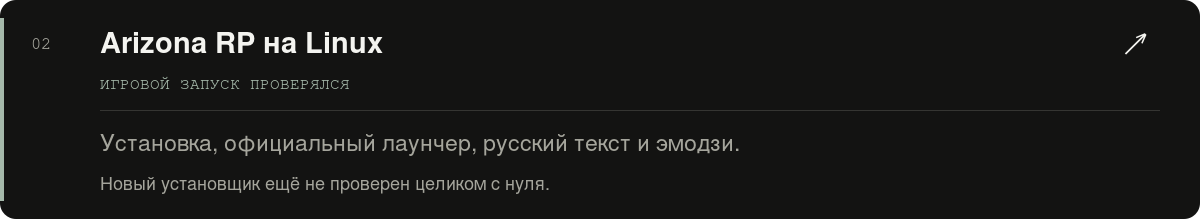
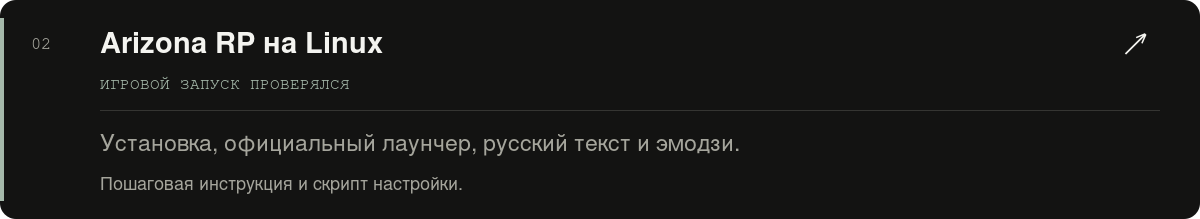
Обновить подписи карточек Arizona и Radmir

Changed region(s): [[0.0925, 0.8219, 0.4625, 0.8767]]

diff --git a/preview.html b/preview.html
@@ -12,9 +12,9 @@
 
 <p><a href="https://github.com/anrhangels/milo-home"><img src="assets/milo.png" width="100%" alt="01 — Milo Home. Простой домашний экран для Android TV и Google TV: приложения, пульт и меньше лишнего. На основе CleanYourTV; собственные выпуски и инструкции. Открыть проект."></a></p>
 
-<p><a href="https://github.com/anrhangels/linux-arizona-rp"><img src="assets/arizona.png" width="100%" alt="02 — Arizona RP на Linux. Установка, официальный лаунчер, русский текст и эмодзи. Игровой запуск проверялся; новый установщик ещё не проверен целиком с нуля. Открыть репозиторий."></a></p>
+<p><a href="https://github.com/anrhangels/linux-arizona-rp"><img src="assets/arizona.png" width="100%" alt="02 — Arizona RP на Linux. Установка, официальный лаунчер, русский текст и эмодзи. Игровой запуск проверялся. Инструкции и настройка — в репозитории. Открыть репозиторий."></a></p>
 
-<p><a href="https://github.com/anrhangels/linux-radmir-rp"><img src="assets/radmir.png" width="100%" alt="03 — Radmir CRMP на Linux. Установка, библиотеки для графики и помощник музыки. Игровой запуск проверялся; новый установщик ещё не проверен целиком с нуля. Открыть репозиторий."></a></p>
+<p><a href="https://github.com/anrhangels/linux-radmir-rp"><img src="assets/radmir.png" width="100%" alt="03 — Radmir CRMP на Linux. Установка, библиотеки для графики и помощник музыки. Игровой запуск проверялся. Инструкции и настройка — в репозитории. Открыть репозиторий."></a></p>
 
 <p><a href="https://github.com/anrhangels/linux-amazing-rp"><img src="assets/amazing.png" width="100%" alt="04 — Amazing Online на Linux. Запуск игры не достигнут. Технический отчёт о проведённых тестах, ошибках и выводах. Открыть отчёт."></a></p>
 

diff --git a/assets/create_art.py b/assets/create_art.py
@@ -53,8 +53,8 @@ def project(c,index,title,status,desc,foot,co):
  text(c,foot,100,190,18,MUTED)
  text(c,'↗',1125,53,30,INK)
 def milo(c):project(c,'01','Milo Home','ANDROID TV / GOOGLE TV','Простой домашний экран: приложения, пульт и меньше лишнего.','На основе CleanYourTV. Собственные выпуски и инструкции.','#B7C6CF')
-def arizona(c):project(c,'02','Arizona RP на Linux','ИГРОВОЙ ЗАПУСК ПРОВЕРЯЛСЯ','Установка, официальный лаунчер, русский текст и эмодзи.','Новый установщик ещё не проверен целиком с нуля.','#A5B9AA')
-def radmir(c):project(c,'03','Radmir CRMP на Linux','ИГРОВОЙ ЗАПУСК ПРОВЕРЯЛСЯ','Установка, библиотеки для графики и помощник музыки.','Новый установщик ещё не проверен целиком с нуля.','#A5B9AA')
+def arizona(c):project(c,'02','Arizona RP на Linux','ИГРОВОЙ ЗАПУСК ПРОВЕРЯЛСЯ','Установка, официальный лаунчер, русский текст и эмодзи.','Пошаговая инструкция и скрипт настройки.','#A5B9AA')
+def radmir(c):project(c,'03','Radmir CRMP на Linux','ИГРОВОЙ ЗАПУСК ПРОВЕРЯЛСЯ','Установка, библиотеки для графики и помощник музыки.','Графика, музыка и запуск одной командой.','#A5B9AA')
 def amazing(c):project(c,'04','Amazing Online на Linux','ЗАПУСК ИГРЫ НЕ ДОСТИГНУТ','Технический отчёт: проведённые тесты, ошибки и выводы.','Сохранил результат неудачной попытки, чтобы он был полезен.','#C8B28C')
 def contact(c):
  base(c,110);text(c,'03 / CONTACT',38,42,16,MUTED,True)

diff --git a/README.md b/README.md
@@ -12,9 +12,9 @@
 
 <p><a href="https://github.com/anrhangels/milo-home"><img src="assets/milo.png" width="100%" alt="01 — Milo Home. Простой домашний экран для Android TV и Google TV: приложения, пульт и меньше лишнего. На основе CleanYourTV; собственные выпуски и инструкции. Открыть проект."></a></p>
 
-<p><a href="https://github.com/anrhangels/linux-arizona-rp"><img src="assets/arizona.png" width="100%" alt="02 — Arizona RP на Linux. Установка, официальный лаунчер, русский текст и эмодзи. Игровой запуск проверялся; новый установщик ещё не проверен целиком с нуля. Открыть репозиторий."></a></p>
+<p><a href="https://github.com/anrhangels/linux-arizona-rp"><img src="assets/arizona.png" width="100%" alt="02 — Arizona RP на Linux. Установка, официальный лаунчер, русский текст и эмодзи. Игровой запуск проверялся. Инструкции и настройка — в репозитории. Открыть репозиторий."></a></p>
 
-<p><a href="https://github.com/anrhangels/linux-radmir-rp"><img src="assets/radmir.png" width="100%" alt="03 — Radmir CRMP на Linux. Установка, библиотеки для графики и помощник музыки. Игровой запуск проверялся; новый установщик ещё не проверен целиком с нуля. Открыть репозиторий."></a></p>
+<p><a href="https://github.com/anrhangels/linux-radmir-rp"><img src="assets/radmir.png" width="100%" alt="03 — Radmir CRMP на Linux. Установка, библиотеки для графики и помощник музыки. Игровой запуск проверялся. Инструкции и настройка — в репозитории. Открыть репозиторий."></a></p>
 
 <p><a href="https://github.com/anrhangels/linux-amazing-rp"><img src="assets/amazing.png" width="100%" alt="04 — Amazing Online на Linux. Запуск игры не достигнут. Технический отчёт о проведённых тестах, ошибках и выводах. Открыть отчёт."></a></p>
 
@@ -39,7 +39,7 @@
 - [Radmir CRMP на Linux](https://github.com/anrhangels/linux-radmir-rp) — инструкция, графика и помощник музыки.
 - [Amazing Online на Linux](https://github.com/anrhangels/linux-amazing-rp) — отчёт о неудачной попытке запуска.
 
-Игровые запуски Arizona и Radmir проверялись на нашей системе. Полная установка с нуля новыми скриптами ещё не перепроверена в игре. Подробности и ограничения — в документации каждого проекта.
+Игровые запуски Arizona и Radmir проверялись на нашей системе. Подробности и ограничения — в документации каждого проекта.
 
 Связь: [Telegram @anrhangels](https://t.me/anrhangels), Discord — `anrhangels`.
 
